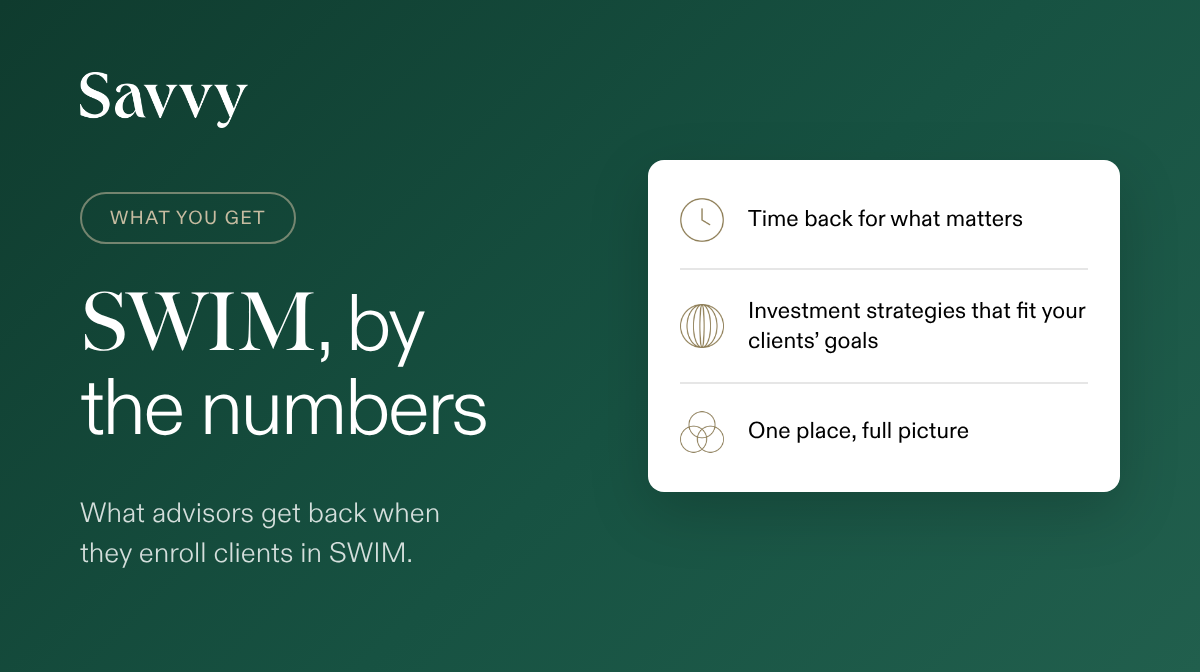
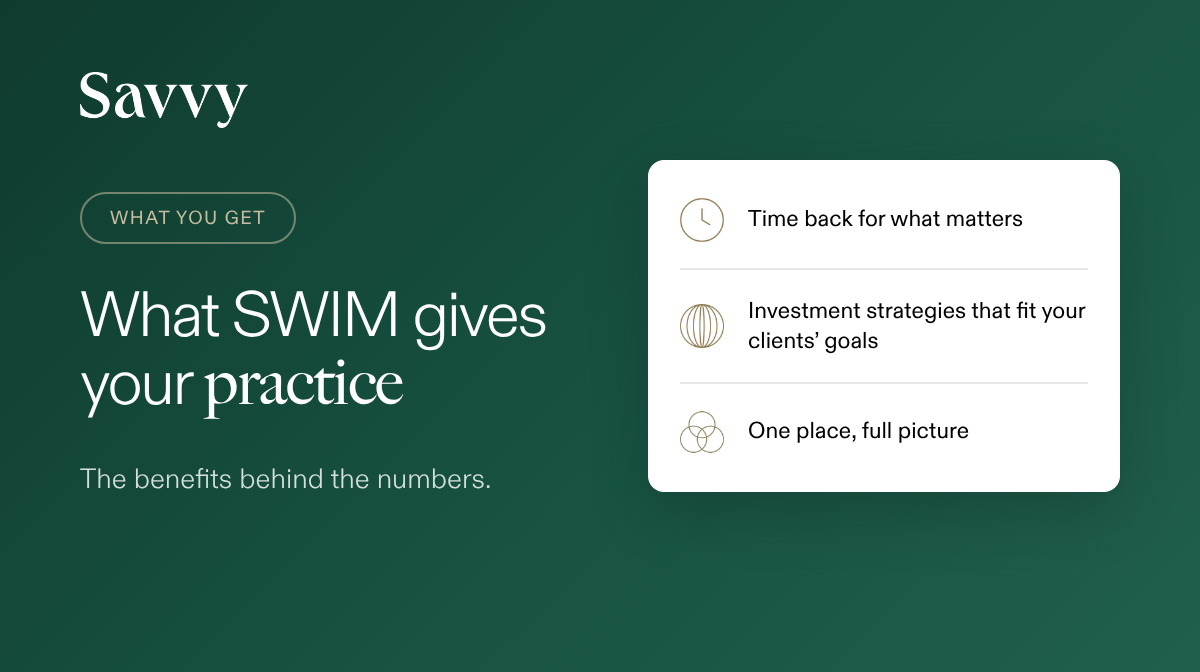
Email 3: original header headline and subheadline
Claude-Session: https://claude.ai/code/session_01C4U8FBFynJxChWkXC4yVRQ

Changed region(s): [[0.0617, 0.4375, 0.4625, 0.6562], [0.0617, 0.6875, 0.4008, 0.7812], [0.0617, 0.8125, 0.3392, 0.8438]]

diff --git a/emails/header-3.html b/emails/header-3.html
@@ -15,7 +15,7 @@
   .logo{position:absolute;top:36px;left:40px;width:84px}
   .left{position:absolute;left:40px;top:96px;display:flex;flex-direction:column;align-items:flex-start;gap:20px}
   .eyebrow{border:1px solid rgba(199,188,161,.55);border-radius:999px;padding:7.25px 14px 6.75px;font-size:9.5px;line-height:10px;letter-spacing:.08em;text-transform:uppercase;white-space:nowrap;color:#C7BCA1}
-  h1{font-weight:300;font-size:40px;line-height:42px;letter-spacing:-.04em;white-space:nowrap}
+  h1{font-weight:300;font-size:32px;line-height:34px;letter-spacing:-.04em;white-space:nowrap}
   h1 .serif{font-family:'Big Caslon',Georgia,serif;font-weight:400;letter-spacing:-.01em}
   .sub{font-weight:300;font-size:14px;line-height:20px;color:rgba(255,255,255,.82);white-space:nowrap}
   .right{position:absolute;right:40px;top:40px;bottom:51px;width:236px;display:flex;flex-direction:column;justify-content:center}
@@ -33,8 +33,8 @@
   <img class="logo" src="assets/savvy-wordmark-white.png" alt="Savvy">
   <div class="left">
     <div class="eyebrow">What you get</div>
-    <h1><span class='serif'>SWIM</span>, by<br>the numbers</h1>
-    <div class="sub">What advisors get back when<br>they enroll clients in SWIM.</div>
+    <h1>What SWIM gives<br>your <span class='serif'>practice</span></h1>
+    <div class="sub">The benefits behind the numbers.</div>
   </div>
   <div class="right"><div class="card">
 <div class="li"><img src="assets/icon-clock.png" alt=""><span class="t">Time back for what matters</span></div>

diff --git a/emails/nurture-3.html b/emails/nurture-3.html
@@ -39,7 +39,7 @@
 
     <!-- HEADER IMAGE (source: header-3.html, 1200x672 @2x) -->
     <tr><td style="padding:0;line-height:0;font-size:0;">
-      <img src="./assets/header-3.png" width="600" alt="SWIM, by the numbers. What advisors get back when they enroll clients in SWIM." style="width:100%;max-width:600px;height:auto;">
+      <img src="./assets/header-3.png" width="600" alt="What SWIM gives your practice. The benefits behind the numbers." style="width:100%;max-width:600px;height:auto;">
     </td></tr>
 
     <!-- INTRO -->

diff --git a/emails/build_emails.py b/emails/build_emails.py
@@ -61,10 +61,10 @@ HEADERS = {
             sub="A quick introduction to the team<br>behind your clients&rsquo; portfolios.",
             graphic=list_card([("clock", "Guided by our CIO", 0), ("globe", "A team that works alongside you", 0), ("circles", "Questions welcome", 0)]),
             alt="The people behind SWIM. A quick introduction to the team behind your clients' portfolios."),
-    3: dict(eyebrow="What you get", h1="<span class='serif'>SWIM</span>, by<br>the numbers", fs=40,
-            sub="What advisors get back when<br>they enroll clients in SWIM.",
+    3: dict(eyebrow="What you get", h1="What SWIM gives<br>your <span class='serif'>practice</span>", fs=32,
+            sub="The benefits behind the numbers.",
             graphic=list_card([("clock", "Time back for what matters", 0), ("globe", "Investment strategies that fit your clients&rsquo; goals", 0), ("circles", "One place, full picture", 0)]),
-            alt="SWIM, by the numbers. What advisors get back when they enroll clients in SWIM."),
+            alt="What SWIM gives your practice. The benefits behind the numbers."),
     4: dict(eyebrow="Strategies", h1="The strategies<br>behind <span class='serif'>SWIM</span>", fs=37,
             sub="A closer look at three of the<br>strategies you can offer.",
             graphic=list_card([("clock", "Savvy Total Portfolios", 0), ("globe", "Direct Indexing", 0), ("circles", "Savvy Fixed Income", 1)]),
